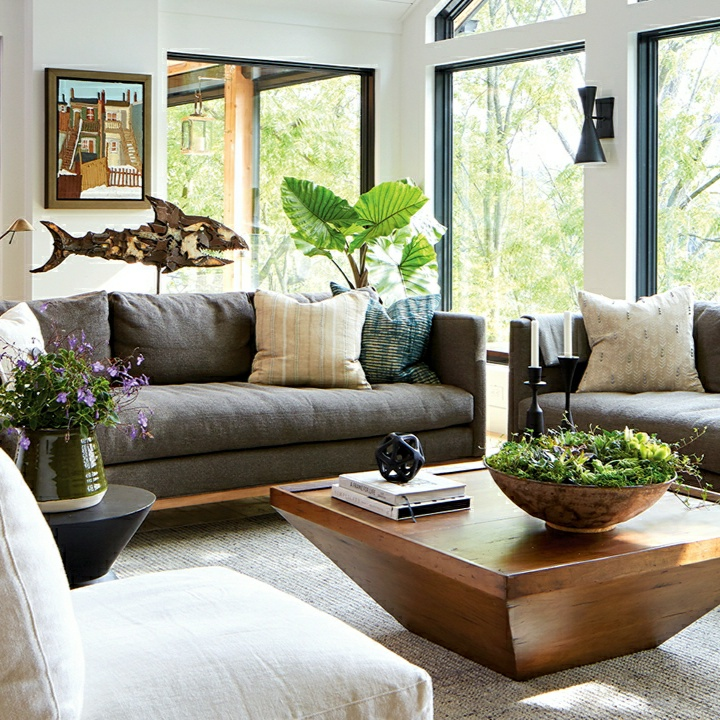
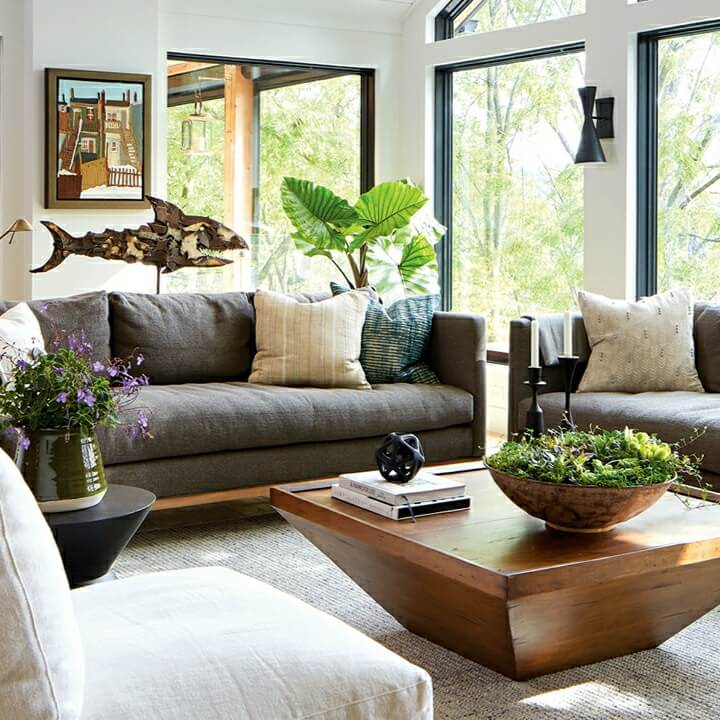
Images tinyfied, services and about sections finished

diff --git a/index.html b/index.html
@@ -94,15 +94,80 @@
           </div>
         </div>
       </section>
+      <hr />
       <section class="section service" id="services">
         <h2 class="section__title">Our Services</h2>
+        <div class="service-grid">
+          <div class="service__item">
+            <h3>Lorem ipsum.</h3>
+            <p>
+              Lorem ipsum dolor sit amet consectetur adipisicing elit. Ullam
+              eius fugit magnam error aspernatur in facere nemo ipsam doloremque
+              esse debitis fugiat expedita natus sapiente, illo ipsum. Nobis,
+              nostrum reiciendis?
+            </p>
+          </div>
+          <div class="service__item">
+            <h3>Lorem ipsum.</h3>
+            <p>
+              Lorem ipsum dolor sit amet consectetur adipisicing elit. Ullam
+              eius fugit magnam error aspernatur in facere nemo ipsam doloremque
+              esse debitis fugiat expedita natus sapiente, illo ipsum. Nobis,
+              nostrum reiciendis?
+            </p>
+          </div>
+          <div class="service__item">
+            <h3>Lorem ipsum.</h3>
+            <p>
+              Lorem ipsum dolor sit amet consectetur adipisicing elit. Ullam
+              eius fugit magnam error aspernatur in facere nemo ipsam doloremque
+              esse debitis fugiat expedita natus sapiente, illo ipsum. Nobis,
+              nostrum reiciendis?
+            </p>
+          </div>
+          <div class="service__item">
+            <h3>Lorem ipsum.</h3>
+            <p>
+              Lorem ipsum dolor sit amet consectetur adipisicing elit. Ullam
+              eius fugit magnam error aspernatur in facere nemo ipsam doloremque
+              esse debitis fugiat expedita natus sapiente, illo ipsum. Nobis,
+              nostrum reiciendis?
+            </p>
+          </div>
+          <div class="service__item">
+            <h3>Lorem ipsum.</h3>
+            <p>
+              Lorem ipsum dolor sit amet consectetur adipisicing elit. Ullam
+              eius fugit magnam error aspernatur in facere nemo ipsam doloremque
+              esse debitis fugiat expedita natus sapiente, illo ipsum. Nobis,
+              nostrum reiciendis?
+            </p>
+          </div>
+          <div class="service__item">
+            <h3>Lorem ipsum.</h3>
+            <p>
+              Lorem ipsum dolor sit amet consectetur adipisicing elit. Ullam
+              eius fugit magnam error aspernatur in facere nemo ipsam doloremque
+              esse debitis fugiat expedita natus sapiente, illo ipsum. Nobis,
+              nostrum reiciendis?
+            </p>
+          </div>
+        </div>
       </section>
+      <hr />
       <section class="section contact" id="contact">
         <h2 class="section__title">Contact Us</h2>
       </section>
     </main>
     <footer class="footer section">
-      <h3></h3>
+      <div class="social-media">
+        <h3>Follow us on:</h3>
+        <div class="links">
+          <i class="icon-facebook"></i>
+          <i class="icon-twitter"></i>
+          <i class="icon-linkedin"></i>
+        </div>
+      </div>
       <hr />
       <h3>Copyright © 2021 Company Name</h3>
     </footer>

diff --git a/src/styles/index.css b/src/styles/index.css
@@ -47,8 +47,7 @@ hr {
   border: none;
   border-top: 1px solid var(--dark-color);
   opacity: 33%;
-  width: 100%;
-  max-width: 400px;
+  width: calc(100% - 4rem);
   margin: 0 auto;
 }
 
@@ -247,6 +246,49 @@ ol {
   }
 }
 
+/* Services */
+/* -------- */
+
+.service {
+  display: grid;
+  gap: 2rem;
+}
+
+.service-grid {
+  display: grid;
+  gap: 2rem;
+}
+
+.service__item {
+  background: var(--section-color);
+  padding: 2rem;
+  border-radius: 1rem;
+  display: grid;
+  gap: 0.5rem;
+  overflow: hidden;
+  transition: 500ms;
+}
+
+.service__item p {
+  display: none;
+}
+
+.service__item h3 {
+  font-size: 1.8rem;
+}
+
+.service__item:active p {
+  display: block;
+}
+.service__item:hover p {
+  display: block;
+}
+@media screen and (min-width: 768px) {
+  .service-grid {
+    grid-template-columns: repeat(2, 1fr);
+  }
+}
+
 /* Footer */
 /* ------ */
 
@@ -260,4 +302,18 @@ ol {
 
 .footer h3 {
   font-size: 1.6rem;
+}
+
+.footer hr {
+  max-width: 400px;
+}
+
+.social-media {
+  display: grid;
+  gap: 2rem;
+}
+
+.social-media .links i {
+  font-size: 2.5rem;
+  margin: 1rem;
 }

diff --git a/src/index.js b/src/index.js
@@ -4,7 +4,17 @@ const handleMenu = () => {
   window.scrollTo(0, 0);
 };
 
+const handleQuitMenu = () => {
+  document.body.classList.remove("small-body");
+  document.getElementById("menu").classList.remove("menu-active");
+};
+
+const a = document.getElementsByTagName("a");
 document.getElementById("icon-menu").addEventListener("click", handleMenu);
+for (let index = 0; index < a.length; index++) {
+  a[index].addEventListener("click", handleQuitMenu);
+}
+
 // const handleCarousel = () => {
 //   const carouselItems = document.getElementsByClassName("carousel__item");
 //   console.log(carouselPos);

diff --git a/README.md b/README.md
@@ -1,1 +1,1 @@
-# Landing Page
+# Construction Page
